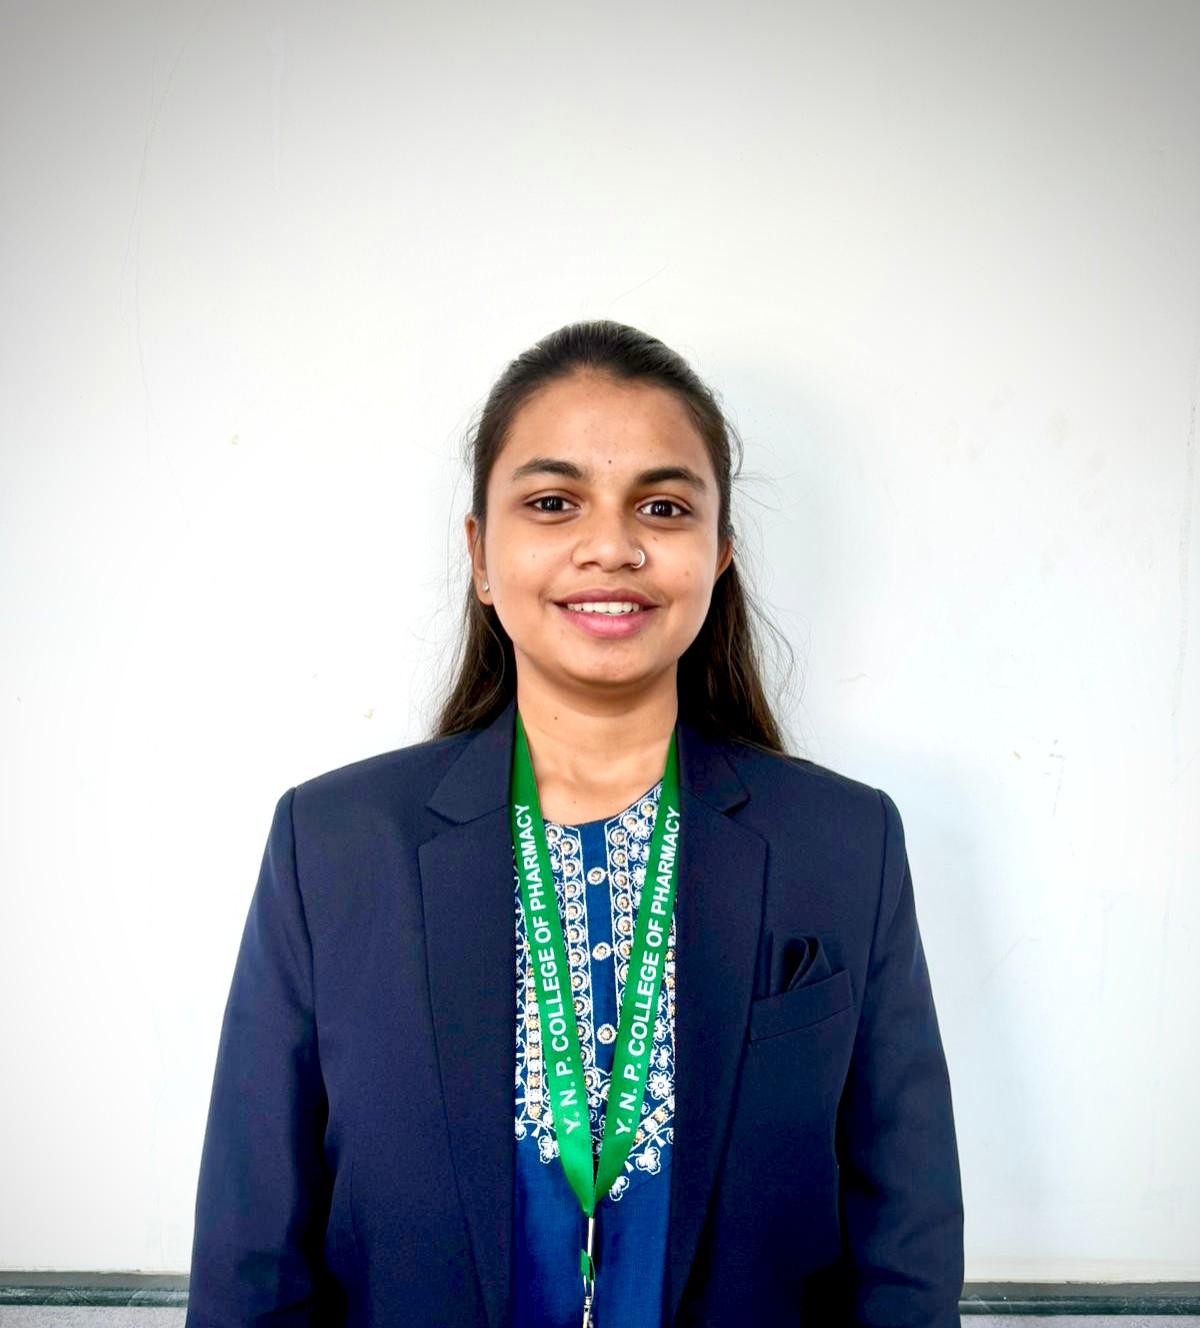
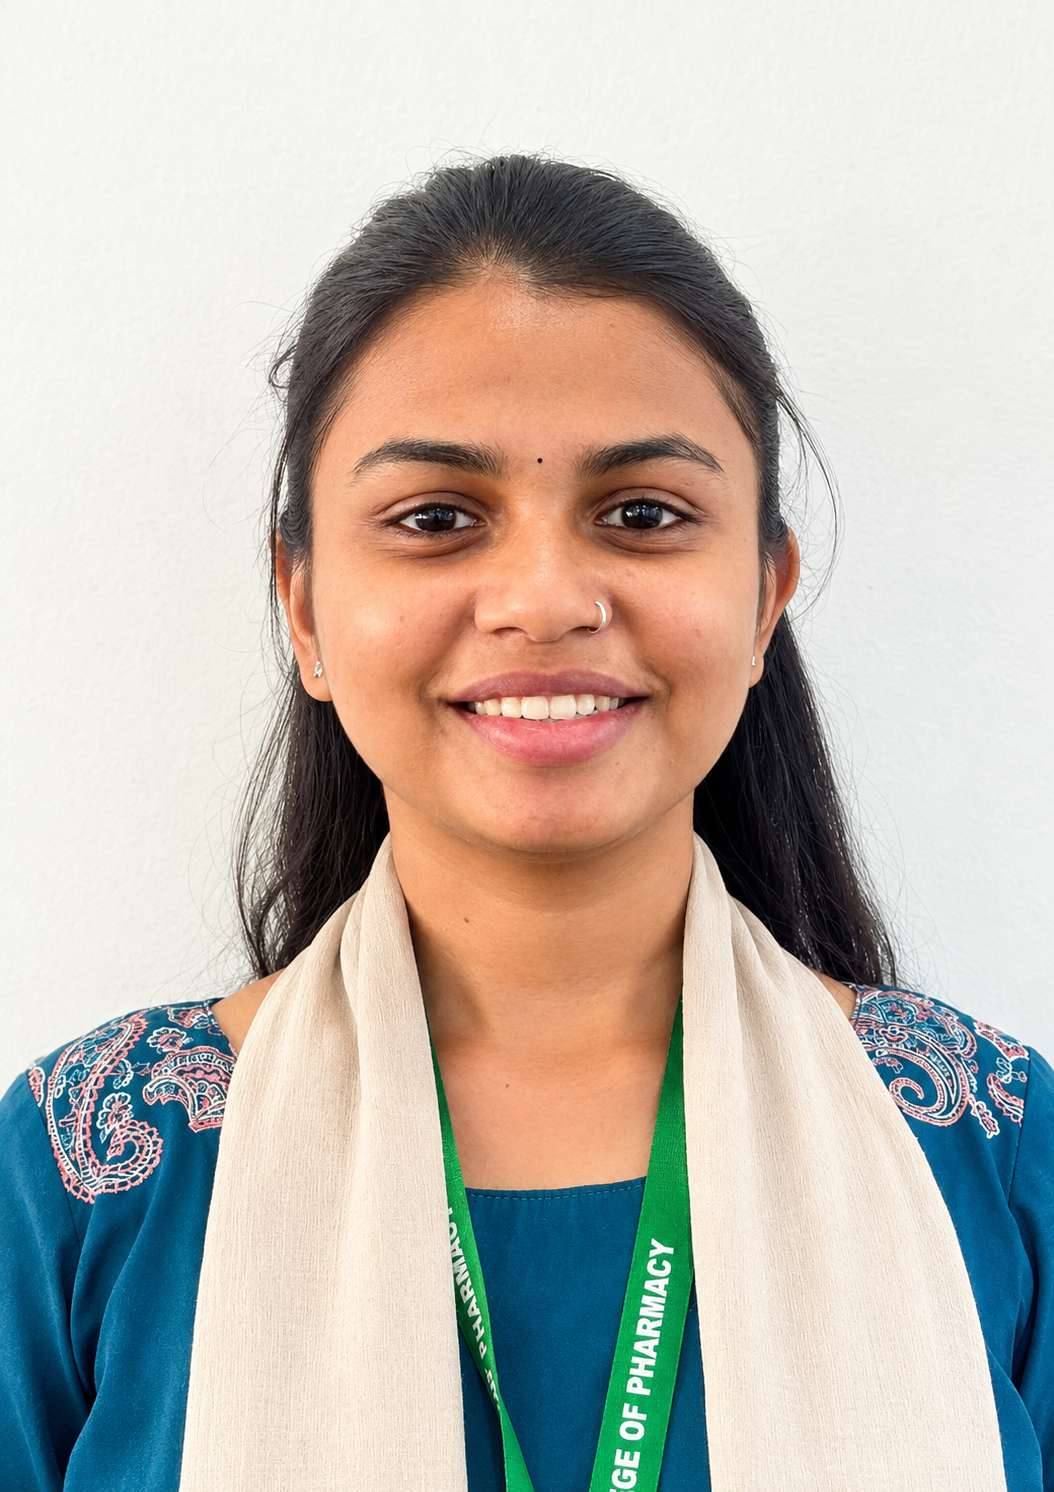
Add photos for remaining faculty and non-teaching staff
- Non-teaching staff: add photos for 11 members, replacing the logo
  placeholder
- D.Pharm: add photos for Snevika Dhodi, Priyanshi Tiwari, Akanksha
  Patil; update Tanvi Ambhire's photo
- B.Pharm: add photos for Tushar Bendga and Sudarshan Ahire
- Guest faculty: add photos for Shruti Patil and Sayali Patil

diff --git a/YNP/src/YNP Teams/NonTeachingStaff.jsx b/YNP/src/YNP Teams/NonTeachingStaff.jsx
@@ -7,31 +7,36 @@ const NonTeachingStaffSection = () => {
     id: 6,
     name: 'Mr. Ashish Patil',
     role: 'Office Superintendent',
-    qualification: 'B.Sc'
+    qualification: 'B.Sc',
+    image: '/staff/ashish-patil.jpg'
   },
   {
     id: 8,
     name: 'Ms. Pooja Machhi',
     role: 'Accountant',
-    qualification: 'B.Com'
+    qualification: 'B.Com',
+    image: '/staff/pooja-machhi.jpg'
   },
   {
     id: 7,
     name: 'Ms. Samruddhi Bhoir',
     role: 'Senior Clerk',
-    qualification: 'M.Com'
+    qualification: 'M.Com',
+    image: '/staff/samruddhi-bhoir.jpg'
   },
   {
     id: 9,
     name: 'Ms. Riya Kore',
     role: 'Jr. Clerk',
-    qualification: 'B.Com'
+    qualification: 'B.Com',
+    image: '/staff/riya-kore.jpg'
   },
   {
     id: 5,
     name: 'Mrs. Sunita Machhi',
     role: 'Librarian',
-    qualification: 'M.Lib'
+    qualification: 'M.Lib',
+    image: '/staff/sunita-machhi.jpg'
   },
   {
     id: 12,
@@ -42,37 +47,43 @@ const NonTeachingStaffSection = () => {
     id: 2,
     name: 'Mr. Vivek Medha',
     role: 'Store Keeper',
-    qualification: 'B.Sc. Chemistry, B.Ed'
+    qualification: 'B.Sc. Chemistry, B.Ed',
+    image: '/staff/vivek-medha.jpg'
   },
   {
     id: 1,
     name: 'Mr. Kanchan Chambre',
     role: 'Lab Assistant',
-    qualification: 'B.Sc. Chemistry'
+    qualification: 'B.Sc. Chemistry',
+    image: '/staff/kanchan-chambre.jpg'
   },
   {
     id: 3,
     name: 'Mr. Rajesh Dhadapa',
     role: 'Lab Assistant',
-    qualification: 'B.Sc. Chemistry'
+    qualification: 'B.Sc. Chemistry',
+    image: '/staff/rajesh-dhadapa.jpg'
   },
   {
     id: 10,
     name: 'Ms. Neha Pagdhare',
     role: 'Lab Technician',
-    qualification: 'DMLT'
+    qualification: 'DMLT',
+    image: '/staff/neha-pagdhare.jpg'
   },
   {
     id: 11,
     name: 'Mr. Vikas Bhoye',
     role: 'Lab Assistant',
-    qualification: 'B.Sc. Chemistry'
+    qualification: 'B.Sc. Chemistry',
+    image: '/staff/vikas-bhoye.jpg'
   },
   {
     id: 4,
     name: 'Mr. Hitesh Patil',
     role: 'Lab Attendant',
-    qualification: 'B.Sc. Chemistry'
+    qualification: 'B.Sc. Chemistry',
+    image: '/staff/hitesh-patil.jpg'
   }
 ];
 

diff --git a/YNP/src/DPharm/Faculty.jsx b/YNP/src/DPharm/Faculty.jsx
@@ -36,18 +36,21 @@ const DPharmFacultySection = () => {
       name: 'Miss. Snevika Vikram Dhodi',
       role: 'Lecturer',
       qualification: 'Bachelor’s in Pharmacy',
+      image: '/faculty/snevika-dhodi.jpg',
     },
     {
       id: 9,
       name: 'Miss. Priyanshi Tiwari',
       role: 'Lecturer',
       qualification: 'Bachelor\'s in Pharmacy',
+      image: '/faculty/priyanshi-tiwari.jpg',
     },
     {
       id: 10,
       name: 'Miss. Akanksha Patil',
       role: 'Lecturer',
       qualification: 'Bachelor\'s in Pharmacy',
+      image: '/faculty/akanksha-patil.jpg',
     },
   ];
 

diff --git a/YNP/src/BPharm/Faculty.jsx b/YNP/src/BPharm/Faculty.jsx
@@ -95,7 +95,8 @@ const facultyMembers = [
     id: 18,
     name: 'Dr. Tushar Bendga',
     role: 'Assistant Professor',
-    qualification: 'Pharm D'
+    qualification: 'Pharm D',
+    image: '/faculty/tushar-bendga.jpg'
   },
   {
     id: 20,
@@ -129,7 +130,8 @@ const facultyMembers = [
     id: 24,
     name: 'Mr. Sudarshan Ahire',
     role: 'Assistant Professor',
-    qualification: 'Master’s in Pharmacy'
+    qualification: 'Master’s in Pharmacy',
+    image: '/faculty/sudarshan-ahire.jpg'
   }
 ];
 

diff --git a/YNP/src/YNP Teams/GuestFaculty.jsx b/YNP/src/YNP Teams/GuestFaculty.jsx
@@ -6,11 +6,13 @@ const GuestFacultySection = () => {
       id: 1,
       name: 'Ms. Shruti Patil',
       role: 'Guest Faculty',
+      image: '/faculty/shruti-patil.jpg',
     },
     {
       id: 2,
       name: 'Ms. Sayali Patil',
       role: 'Guest Faculty',
+      image: '/faculty/sayali-patil.jpg',
     },
   ];
 
